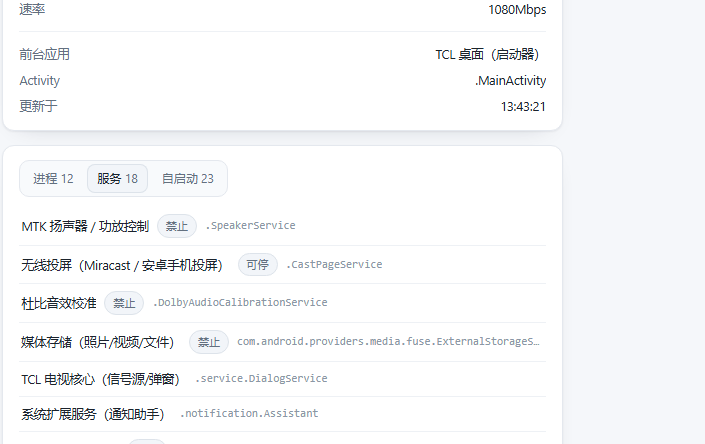
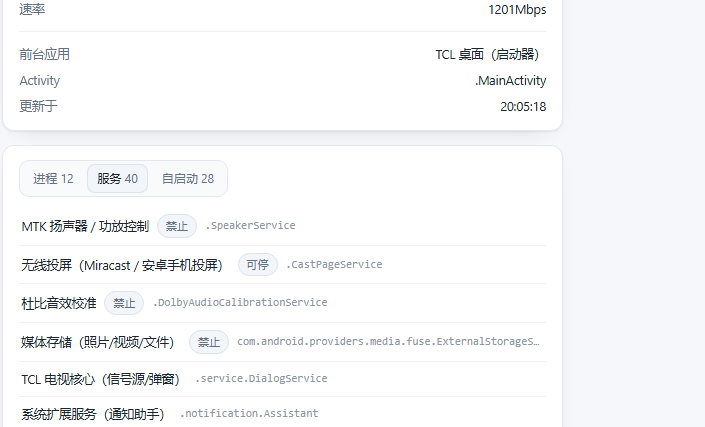
docs: 用真实电视数据替换预览图；修复时间戳与趋势居中
- panel_main.png / panel_adapters.png 改为电视在线时的真实数据（进程/服务/自启动/应用）
- fix(ui): /api/status 的 ts 已是 HH:MM:SS 字符串，不再按时间戳解析（原显示 Invalid Date）
- fix(ui): 内存趋势数值接近时曲线居中显示，避免贴底看起来像没数据

diff --git a/web/index.html b/web/index.html
@@ -404,6 +404,7 @@ function kvRows(pairs){
 }
 function fmtTs(ts){
   if (!ts) return '—';
+  if (typeof ts === 'string') return ts;        // 后端已格式化为 HH:MM:SS
   try { return new Date(ts * 1000).toLocaleTimeString('zh-CN', { hour12: false }); } catch (e) { return '—'; }
 }
 
@@ -540,8 +541,10 @@ function renderSpark(items){
   const lo = Math.min.apply(null, vals);
   const hi = Math.max.apply(null, vals);
   const span = Math.max(3, hi - lo);          // 至少 3 个百分点，避免平线
+  const mid = (lo + hi) / 2;
+  const base = mid - span / 2;                // 数值接近时把曲线放在中间
   const x = i => (i / (items.length - 1)) * (w - 2) + 1;
-  const y = v => h - 6 - ((v - lo) / span) * (h - 18);
+  const y = v => h - 6 - ((v - base) / span) * (h - 18);
 
   ctx.strokeStyle = grid;
   ctx.lineWidth = 1;
